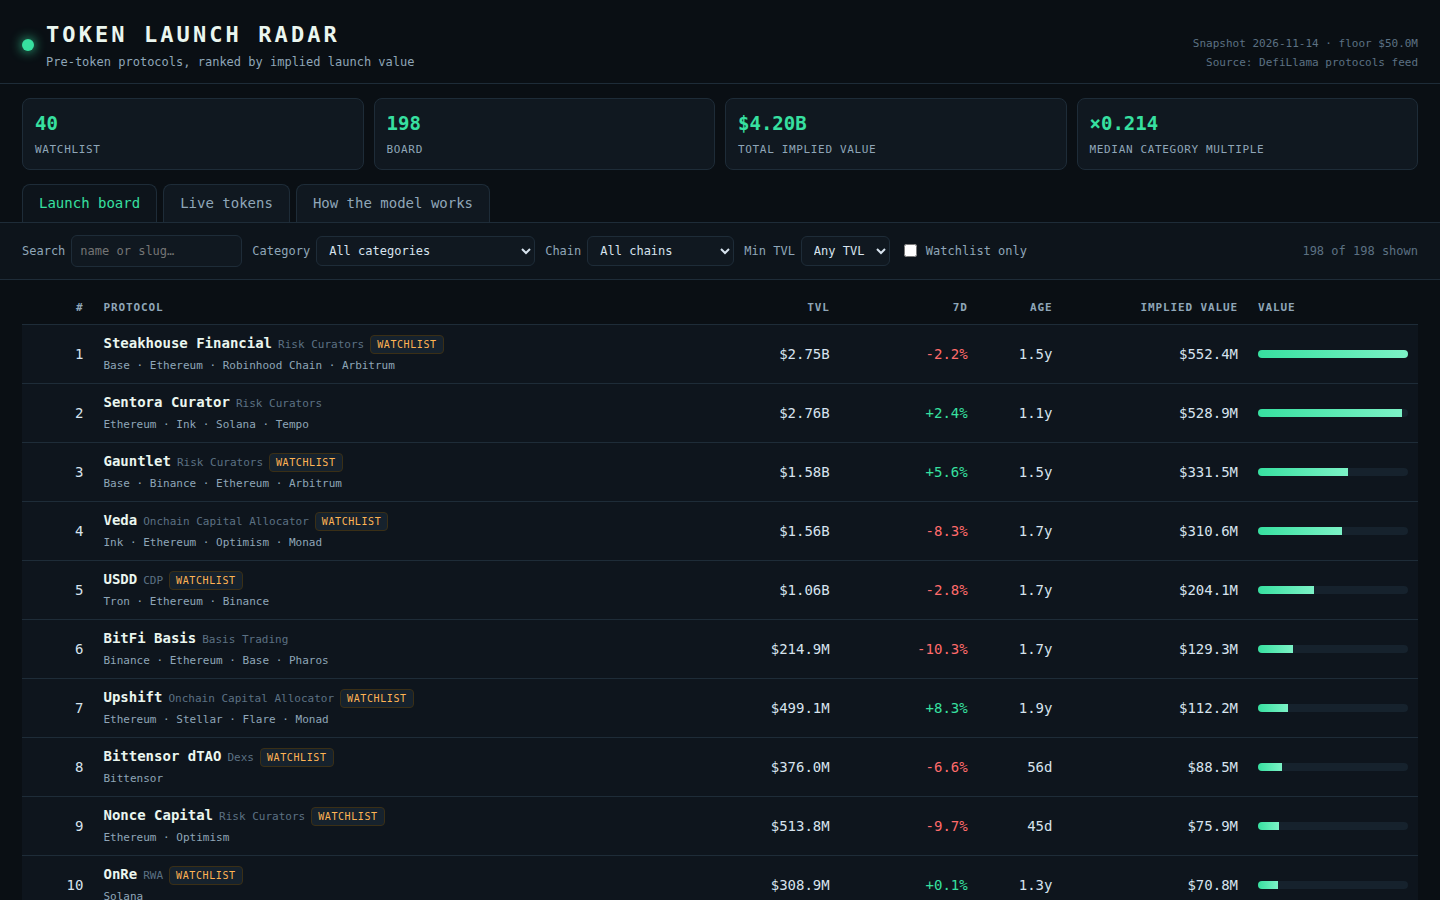
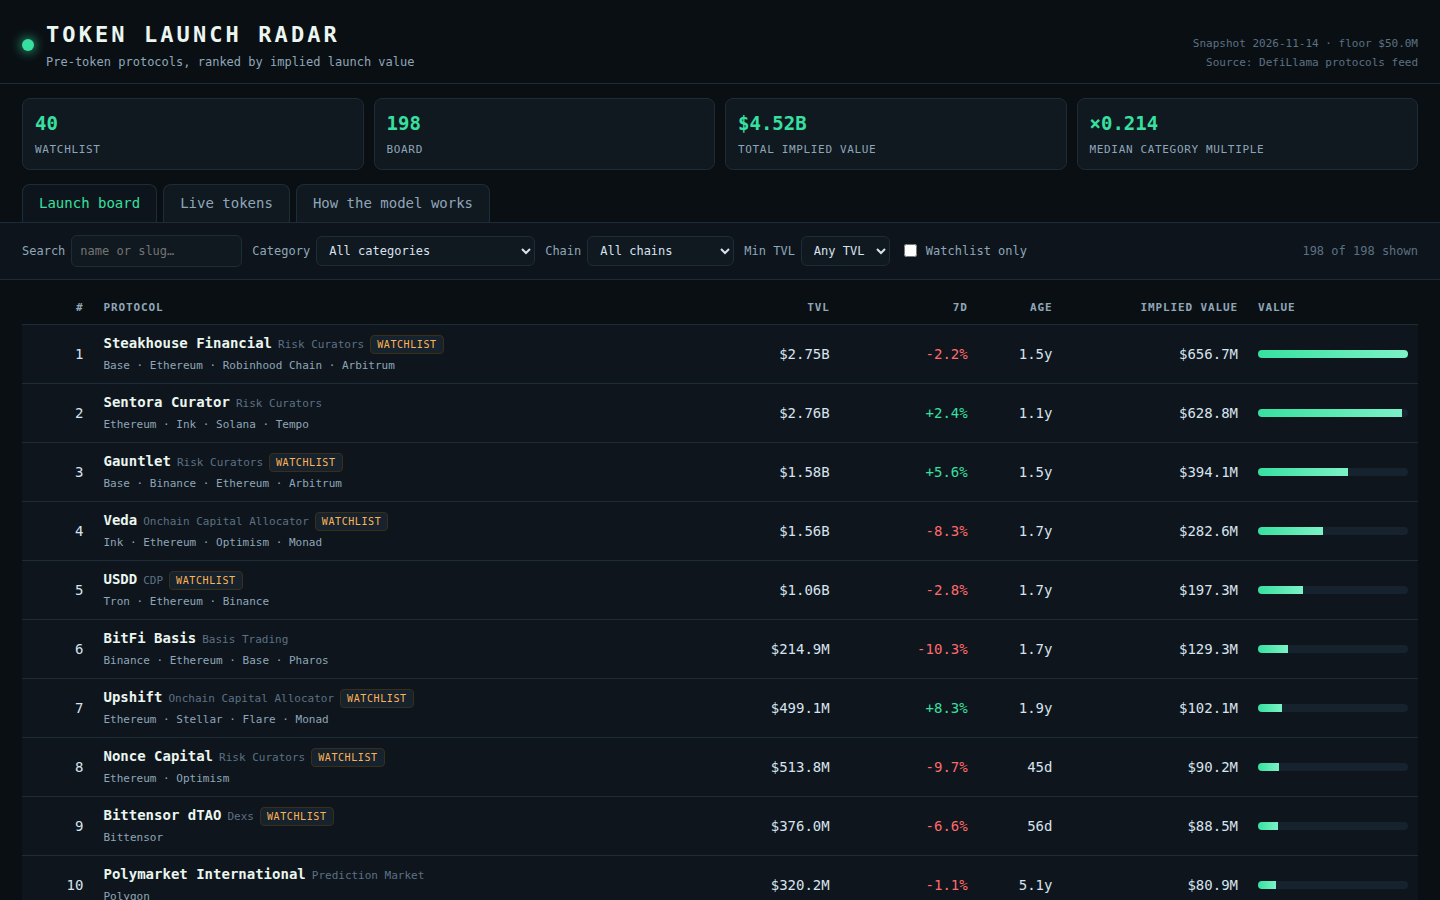
token-radar-01: radar-3 partial-pooling category multiples

diff --git a/lib/model.ts b/lib/model.ts
@@ -1,13 +1,21 @@
-// Token radar model, version radar-2: implied value from the snapshot's own figures only.
+// Token radar model, version radar-3: implied value from the snapshot's own figures only.
 //
 //   implied = TVL x categoryMultiple x growthMult x maturityMult x chainMult
 //
-// categoryMultiple is the median mcap/TVL of the token-bearing protocols in the same category,
-// computed at runtime from this snapshot (at least 4 samples, else the global median), clamped to
-// [0.04, 0.9]. It is a market-derived multiple, not a hand-picked constant and never a list of
-// names: a category whose tokens trade richly against TVL implies a richer launch, and one whose
-// tokens trade thin implies a thinner one. growthMult rewards 7-day TVL growth, maturityMult
-// rewards a long track record with no token yet, chainMult rewards a multi-chain footprint.
+// categoryMultiple is a partial-pooling estimate of the median mcap/TVL of the token-bearing
+// protocols in the same category, computed at runtime from this snapshot. A category with at
+// least 4 samples uses its own median outright; a thinner category is pulled toward the global
+// median in proportion to its sample count — the global median is a prior worth 16 observations,
+// so one sample moves the multiple less than 6% of the way from the global median to the
+// category's own median, and a category with no traded protocol at all stays on the global
+// median. The result is clamped to [0.04, 0.9]. It is a market-derived multiple, not a
+// hand-picked constant and never a list of names: a category whose tokens trade richly against
+// TVL implies a richer launch, and one whose tokens trade thin implies a thinner one — but
+// thin evidence only earns a thin move. The previous version (radar-2) gave every thin category
+// the global median outright, so 112 of 198 rows sat on one number, including the whole top 3;
+// radar-3 lets each category's own traded protocols speak, weighted by how many there are.
+// growthMult rewards 7-day TVL growth, maturityMult rewards a long track record with no token
+// yet, chainMult rewards a multi-chain footprint.
 //
 // The board ranks every strict-rankable protocol: pre-token (no mcap, no gecko id, no symbol) and
 // not a CEX, not a versioned name, not a Bridge / Canonical Bridge / Liquid Staking / Liquid
@@ -51,6 +59,8 @@ export interface ModelConstants {
   multiple_floor: number;
   multiple_cap: number;
   min_category_samples: number;
+  /** How many pseudo-observations the global median is worth as a prior when pooling thin categories. */
+  prior_strength: number;
   chain_step: number;
   chain_max_steps: number;
 }
@@ -66,12 +76,13 @@ export const MODEL: ModelConstants = {
   multiple_floor: 0.04,
   multiple_cap: 0.9,
   min_category_samples: 4,
+  prior_strength: 16,
   chain_step: 0.03,
   chain_max_steps: 4,
 };
 
 /** The model's version label: the dashboard names it. */
-export const MODEL_VERSION = 'radar-2';
+export const MODEL_VERSION = 'radar-3';
 
 /** How many live-token protocols the Live token view carries, by market cap. */
 export const LIVE_ROWS = 24;
@@ -189,10 +200,24 @@ export function median(values: number[]): number {
 }
 
 /**
- * The category multiples, computed from the snapshot itself: for each category, the median
- * mcap/TVL of its token-bearing protocols (mcap present, TVL positive), clamped to the model's
- * floor and cap; categories with fewer than min_category_samples fall back to the global median
- * over all token-bearing protocols. No name is ever special-cased.
+ * The category multiples, computed from the snapshot itself by partial pooling: for each
+ * category, the median mcap/TVL of its token-bearing protocols (mcap present, TVL positive).
+ * A category with at least min_category_samples uses its own median outright. A thinner
+ * category does not get its own median outright and does not fall back to the global median
+ * either: its multiple is a credibility-weighted blend, global + n/(n + prior_strength) x
+ * (category median - global), so the global median acts as a prior worth prior_strength
+ * observations and thin evidence only earns a thin move — one sample moves the multiple less
+ * than 1/(1 + prior_strength) of the way. A category with no traded protocol at all is absent
+ * from the table and its rows take the global median. Every multiple is clamped to the model's
+ * floor and cap. No name is ever special-cased.
+ *
+ * Why pooling, and why this strength: the snapshot's ratios are heavy-tailed (global median
+ * 0.214, 90th percentile 2.97, max 400.2), so a thin category's raw median is one or two
+ * observations of a wild distribution — using it outright would let a single protocol set the
+ * value of a whole category, and the hard fallback it replaces threw that evidence away
+ * entirely (112 of 198 rows on one number under radar-2). With prior_strength 16 the move is
+ * bounded and stable on this snapshot: the board total moves +7.6% versus radar-2, the top 5
+ * keep their order, and no row's implied value moves more than x1.36.
  */
 export function categoryMultiples(snapshot: Snapshot, model: ModelConstants): { byCategory: Record<string, number>; global: number } {
   const clamp = (v: number): number => Math.min(model.multiple_cap, Math.max(model.multiple_floor, v));
@@ -211,7 +236,13 @@ export function categoryMultiples(snapshot: Snapshot, model: ModelConstants): { 
   const global = clamp(median(all));
   const out: Record<string, number> = {};
   for (const [cat, list] of byCat) {
-    out[cat] = list.length >= model.min_category_samples ? clamp(median(list)) : global;
+    const catMedian = clamp(median(list));
+    if (list.length >= model.min_category_samples) {
+      out[cat] = catMedian;
+    } else {
+      const w = list.length / (list.length + model.prior_strength);
+      out[cat] = clamp(global + w * (catMedian - global));
+    }
   }
   return { byCategory: out, global };
 }

diff --git a/dashboard/index.html b/dashboard/index.html
@@ -66,7 +66,7 @@
     <h2>How the model works</h2>
     <p class="formula">implied&nbsp;=&nbsp;TVL&nbsp;×&nbsp;category&nbsp;multiple&nbsp;×&nbsp;growth&nbsp;×&nbsp;maturity&nbsp;×&nbsp;chain</p>
     <ul class="explain">
-      <li><b>Category multiple</b> — the median market-cap / TVL of the token-bearing protocols in the same category, computed from this snapshot at run time (at least 4 samples, else the global median), clamped to 0.04–0.90. A category whose tokens trade richly against TVL implies a richer launch.</li>
+      <li><b>Category multiple</b> — the median market-cap / TVL of the token-bearing protocols in the same category, computed from this snapshot at run time. Categories with at least 4 samples use their own median outright; thinner categories are pulled toward the global median in proportion to their sample count — the global median counts as a prior worth 16 observations, so one sample moves the multiple less than 6% of the way, and a category with no traded protocol at all stays on the global median. Clamped to 0.04–0.90. A category whose tokens trade richly against TVL implies a richer launch.</li>
       <li><b>Growth</b> — 1 + clamped 7-day TVL change (−50%…+100%) × 0.6. Growing TVL lifts the implied value; shrinking TVL cuts it.</li>
       <li><b>Maturity</b> — 0.7 + min(age, 1095 days) / 1095 × 0.3. A protocol that ran for years with no token yet has had longer to build a launch. Unknown age counts as 365 days.</li>
       <li><b>Chain</b> — 1 + 0.03 per extra chain, up to 4 extra chains. A multi-chain footprint widens the launch.</li>

diff --git a/dashboard/app.js b/dashboard/app.js
@@ -131,7 +131,7 @@
   // ---- model view: category multiples
   $('multrows').innerHTML = Object.keys(R.category_multiples).sort(function (a, b) { return R.category_multiples[b] - R.category_multiples[a]; })
     .map(function (c) { return '<tr><td>' + esc(c) + '</td><td class="num">×' + R.category_multiples[c].toFixed(3) + '</td></tr>'; }).join('') +
-    '<tr><td>Global median (fallback)</td><td class="num">×' + R.global_multiple.toFixed(3) + '</td></tr>';
+    '<tr><td>Global median (prior)</td><td class="num">×' + R.global_multiple.toFixed(3) + '</td></tr>';
 
   // ---- tabs
   function show(view) {

diff --git a/README.md b/README.md
@@ -15,18 +15,39 @@ strict-rankable pre-token protocol, and writes `board.json`, `data.js`, the
 dashboard, the screenshots and `dossier.json` to the output directory. Run it twice:
 both runs write the same bytes.
 
-## The model (radar-2)
+## The model (radar-3)
 
 ```
 implied = TVL x category multiple x growth x maturity x chain
 ```
 
-- **Category multiple** — the median market-cap / TVL of the token-bearing protocols
-  in the same category, computed from the snapshot at run time (at least 4 samples,
-  else the global median), clamped to 0.04–0.90. No protocol name is ever special-cased.
+- **Category multiple** — a partial-pooling estimate of the median market-cap / TVL
+  of the token-bearing protocols in the same category, computed from the snapshot
+  at run time, clamped to 0.04–0.90. A category with at least 4 samples uses its
+  own median outright. A thinner category is pulled toward the global median
+  (0.214 on this snapshot) in proportion to its sample count: the global median
+  acts as a prior worth 16 observations, so one sample moves the multiple less
+  than 6% of the way from the global median to the category's own median, and a
+  category with no traded protocol at all stays on the global median. No protocol
+  name is ever special-cased, and the multiple is never tuned to any other entry's
+  total — the board's total implied value is not the score, the rule is.
 - **Growth** — 1 + clamped 7-day TVL change (−50%…+100%) × 0.6.
 - **Maturity** — 0.7 + min(age, 1095 days) / 1095 × 0.3; unknown age counts as 365 days.
 - **Chain** — 1 + 0.03 per extra chain, up to 4 extra chains.
+
+Why pooling: the snapshot's mcap/TVL ratios are heavy-tailed (global median 0.214,
+90th percentile 2.97, max 400.2), so a thin category's raw median is one or two
+observations of a wild distribution — using it outright would let a single protocol
+set a whole category's value, and the hard fallback it replaces threw that evidence
+away entirely. Under radar-2, 112 of 198 rows sat on the global median, including
+the whole top 3. Radar-3 changes the board modestly and stably: total implied value
+$4.196B → $4.516B (+7.6%), the top 5 keep their order (Steakhouse $552M → $657M,
+Sentora $529M → $629M, Gauntlet $332M → $394M, Veda $311M → $283M, USDD $204M →
+$197M), only 18 of 198 rows remain exactly on the global median, and no row's
+implied value moves more than ×1.36. A naive shrinkage (weighted average of the
+category median and the global median with no prior strength) was tested and
+rejected: it explodes the total to $8.16–12.90B because thin categories with high
+medians get lifted wholesale.
 
 The board ranks all 198 strict-rankable protocols: pre-token (records no token) and
 not an exchange, a versioned pool, or a bridge / liquid-staking / restaking product,
